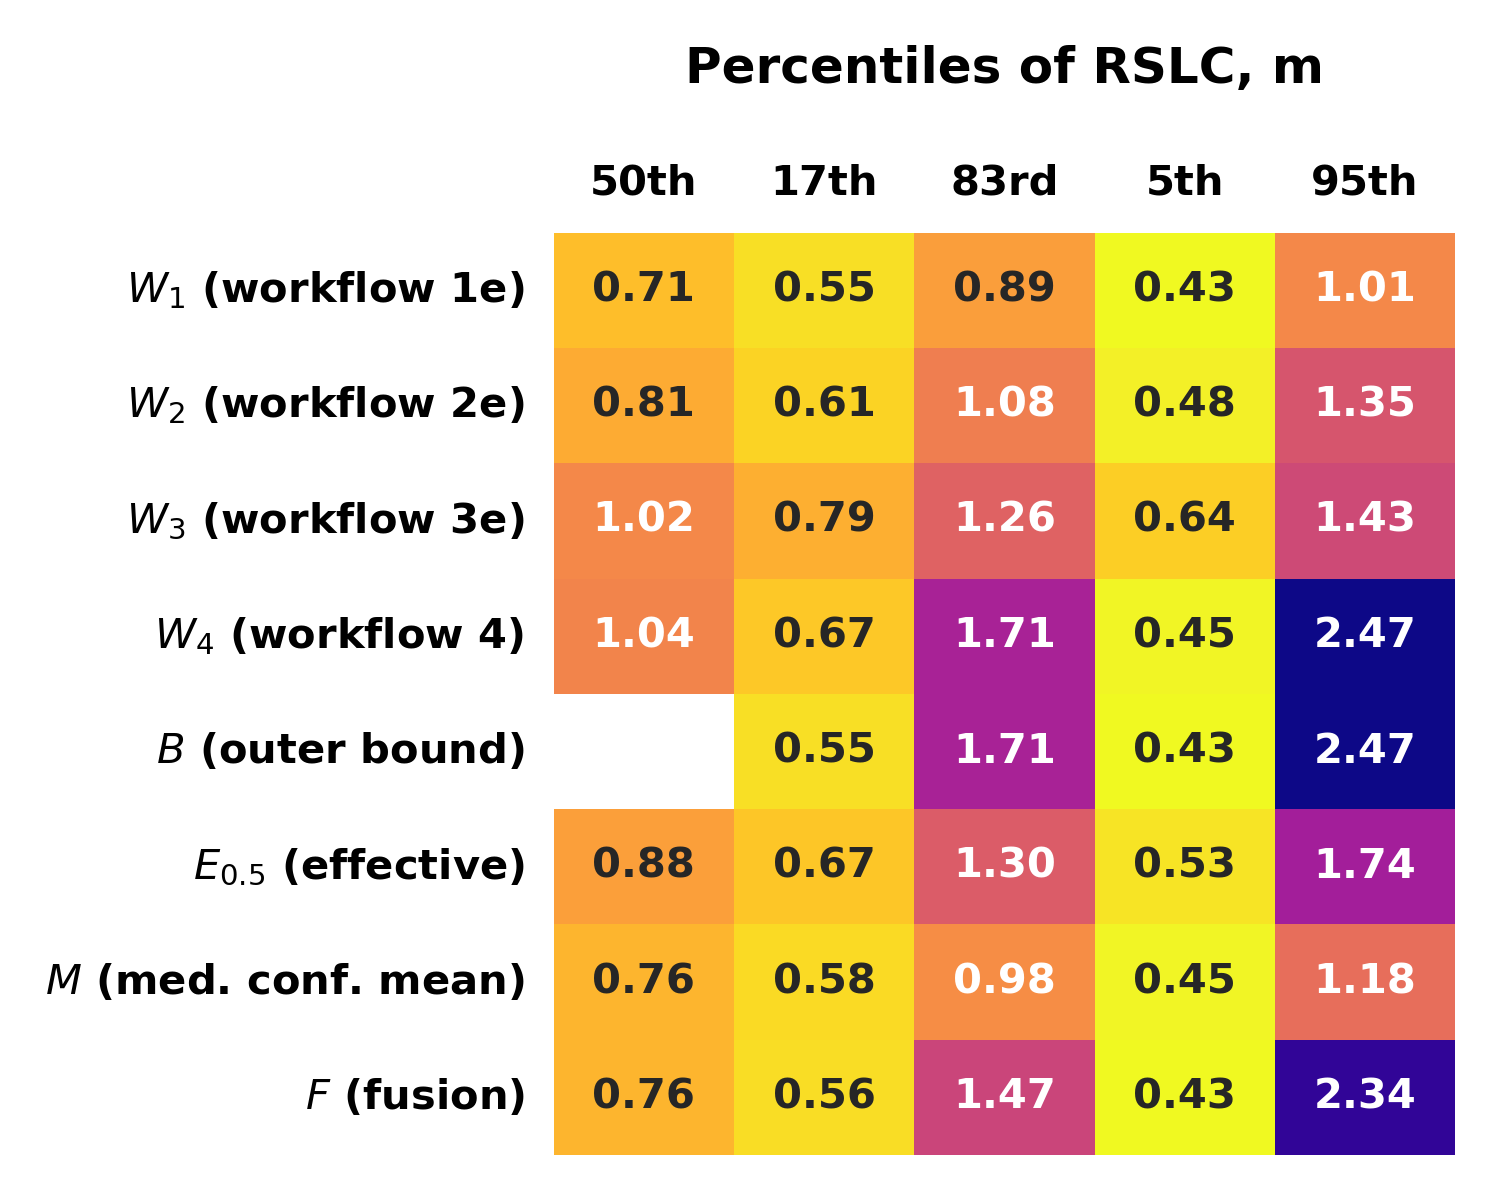
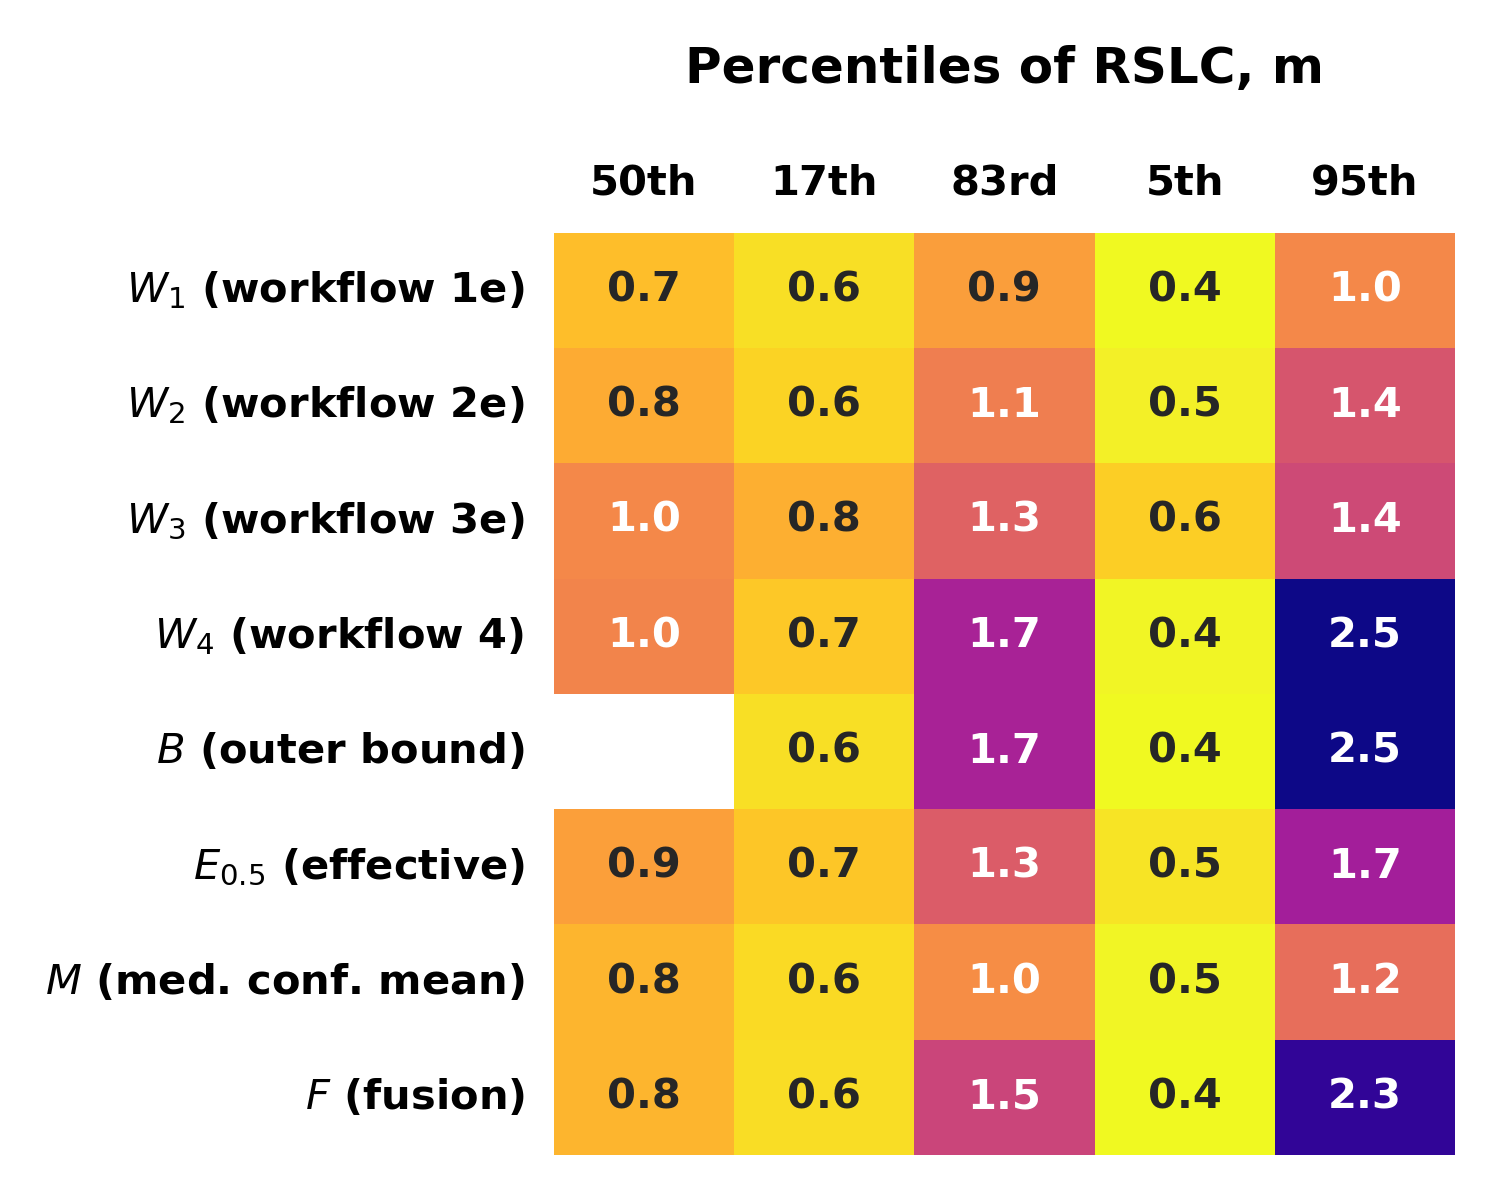
d23a.py plot_percentiles_heatmap(): change default fmt to ‘.1f’ (from ‘.2f’).

diff --git a/d23a.py b/d23a.py
@@ -580,7 +580,7 @@ def plot_exceedance_heatmap(threshold=1.5, workflows=('lower', 'fusion_1e+2e', '
 def plot_percentiles_heatmap(percentiles=('50th', '17th', '83rd', '5th', '95th'),
                              workflows=('wf_1e', 'wf_2e', 'wf_3e', 'wf_4', 'outer', 'effective_0.5', 'mean_1e+2e',
                                         'fusion_1e+2e'),
-                             rate=False, scenario='ssp585', year=2100, gauge='TANJONG_PAGAR', fmt='.2f', ax=None):
+                             rate=False, scenario='ssp585', year=2100, gauge='TANJONG_PAGAR', fmt='.1f', ax=None):
     """
     Plot heatmap table showing percentiles of quantile functions.
 
@@ -600,7 +600,7 @@ def plot_percentiles_heatmap(percentiles=('50th', '17th', '83rd', '5th', '95th')
     gauge : int or str
         ID or name of gauge. Default is 'TANJONG_PAGAR' (equivalent to 1746).
     fmt : str.
-        Format string to use for values. Default is '.2f'.
+        Format string to use for values. Default is '.1f'.
     ax : Axes
         Axes on which to plot. If None (default), then use new axes.
 
